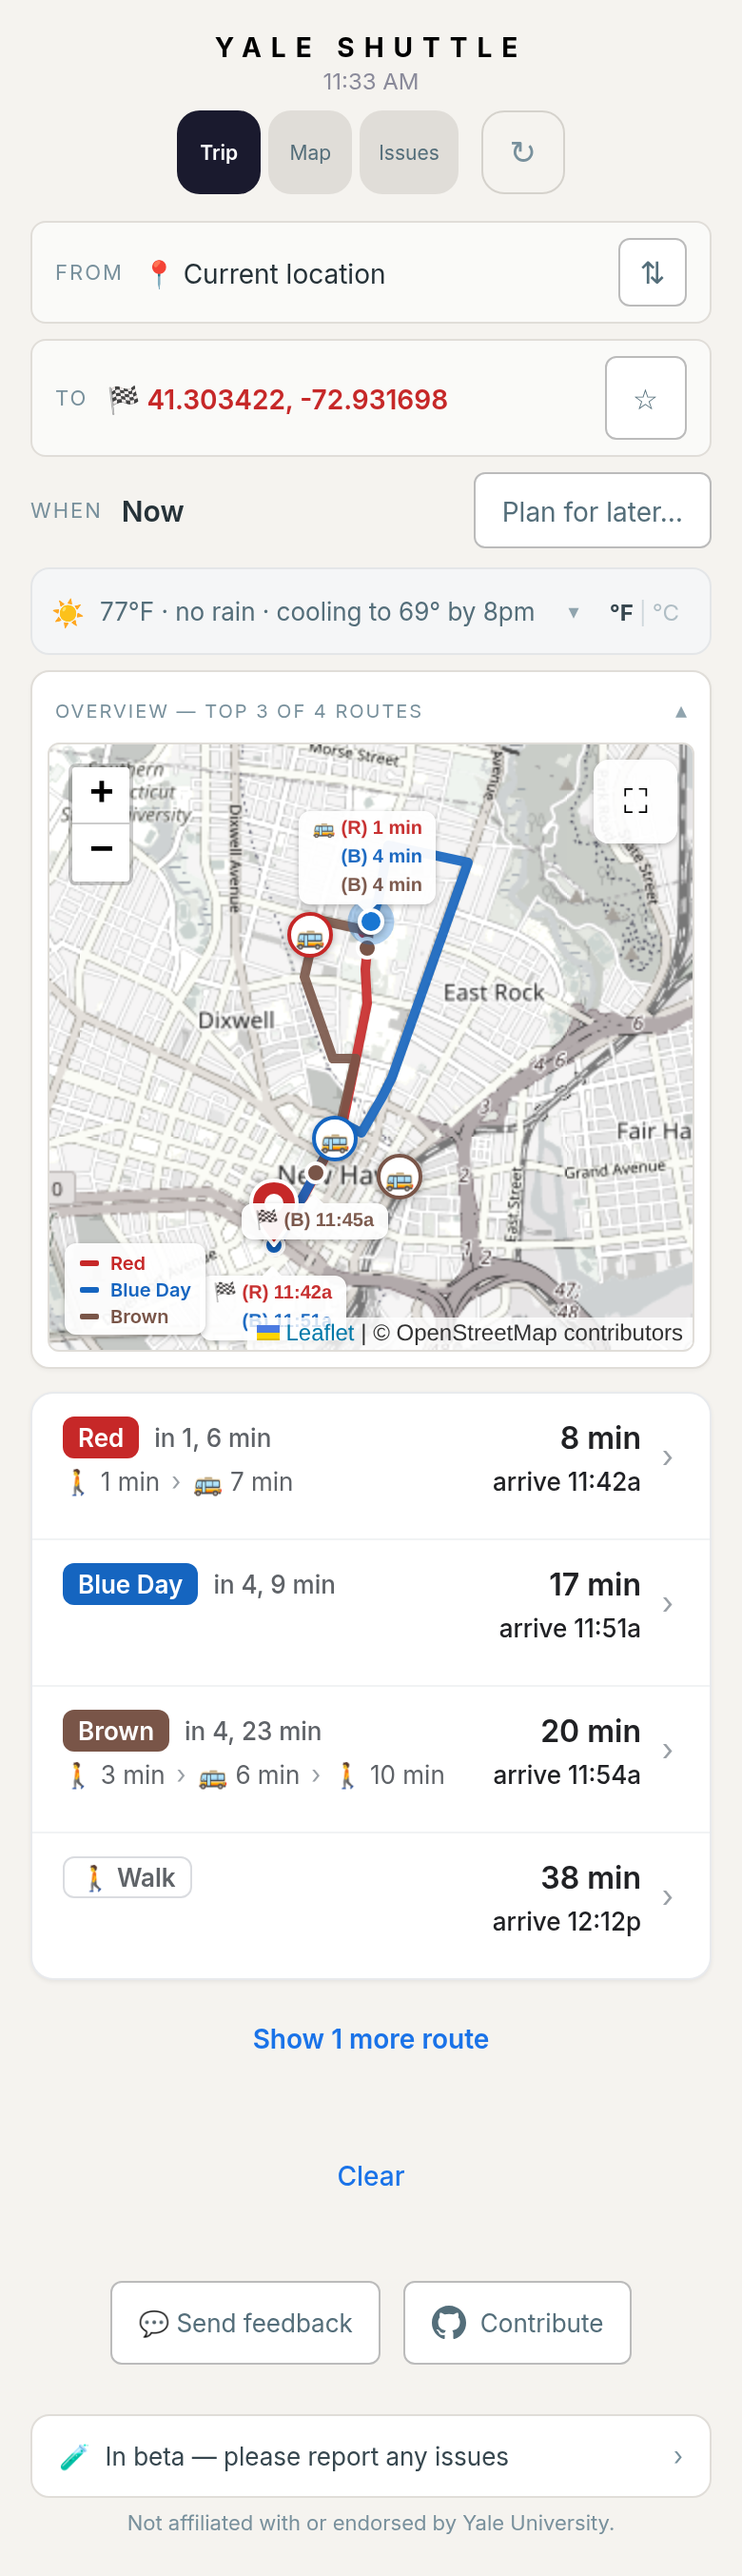
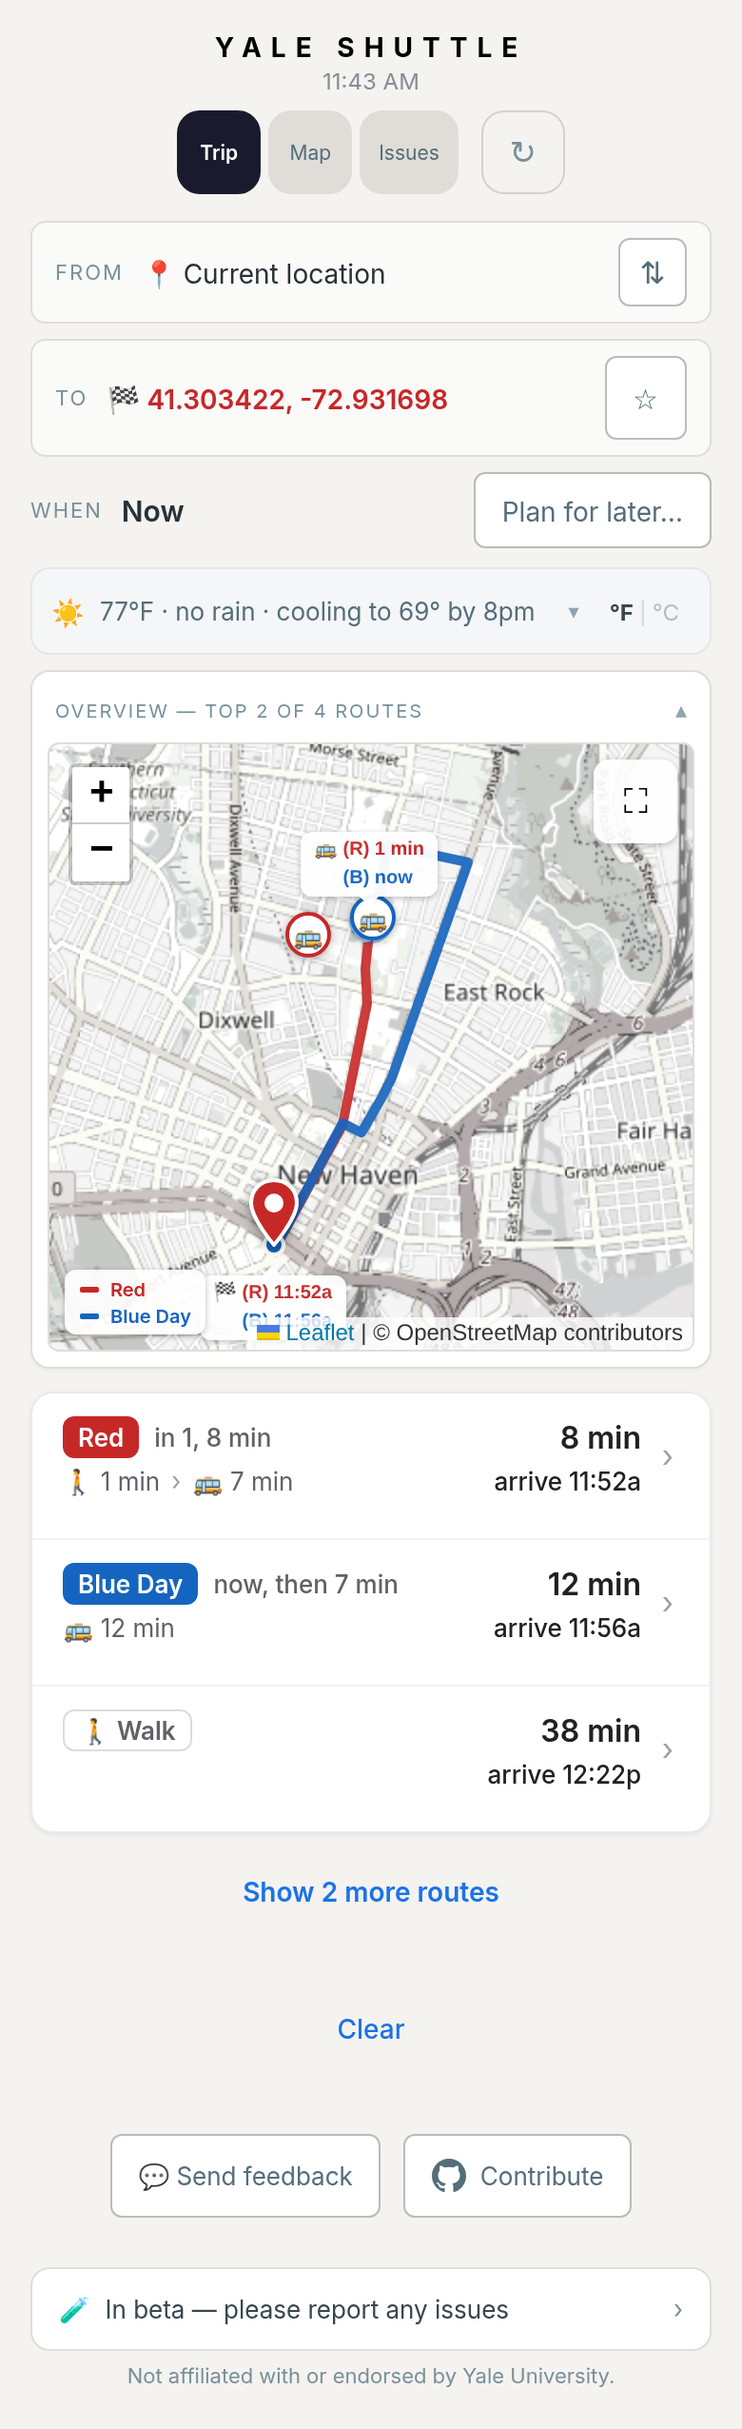
A trip with no walking still has a ride, and now says so
Visible on #115's own screenshot: "Blue Day  in 4, 9 min" and then an empty
second line, next to four cards that spelled out what the trip was made of.
The leg block was gated on `walkToSec > 0 || walkFromSec > 0`, so a rider
already at the stop, bound for a stop on the line, got no legs at all — and
the ride is the one leg every shuttle option has.

`legsShown` is now `!isExpanded && o.mode === "shuttle"` and nothing more. The
walks inside were already each guarded on their own duration, so a 0 s walk is
still omitted and such a card reads "🚌 17 min" under its pill. It stays the
single gate, so "· most direct" keeps its separator exactly where something
precedes it — which is now always, for a collapsed shuttle row.

THE CANARY. This shape puts a bare "🚌 12 min" directly under a duration —
where the countdown itself sat before 2026-09-04 — so it is the
ride-bar-vs-countdown collision the suite already guards, arriving from a new
direction. Two things hold: `parseBusEtaText` is the single arbiter and the
ride bar has no "in", and the countdown is found in `pre` (above the duration)
before the ride bar in `post` is ever considered. Captured from the rendered
page as LIVE_RIDE_WITHOUT_WALKS rather than argued, per the rule #115 wrote
into CLAUDE.md; all five cards parse with every field intact.

1-normal.png re-taken on this build.

Claude-Session: https://claude.ai/code/session_01R6RZ3PXjPXGkAaecqr9Z1H

diff --git a/services/shuttle-v2/web/src/TransitMap.tsx b/services/shuttle-v2/web/src/TransitMap.tsx
@@ -3657,13 +3657,23 @@ const TripPlanner: FC<{
                   busEtaLive,
                 )
               : null;
-            // Whether line 2's left column draws the walk/ride legs. "most
-            // direct" carries its own leading "·" and would otherwise open
-            // that column with an orphaned bullet: the arrival clock used to
-            // sit to its left and always supplied the neighbour, and it is the
-            // right column now, so the separator has to ask.
-            const legsShown = !isExpanded && o.mode === "shuttle"
-              && (o.walkToSec > 0 || o.walkFromSec > 0);
+            // Whether line 2's left column draws the trip's legs. EVERY
+            // collapsed shuttle row has one: the ride. This used to also
+            // require a walk at one end or the other, so a rider already at
+            // the stop whose destination is on it got a blank second line —
+            // the one card on screen that did not say what the trip was made
+            // of, next to four that did (visible on #115's own screenshot:
+            // "Blue Day  in 4, 9 min" and then nothing). The walk legs inside
+            // are each guarded on their own duration, so a 0 s walk is still
+            // omitted and a bus-only trip reads "🚌 17 min".
+            //
+            // It is also the single gate for the separator: "most direct"
+            // carries its own leading "·" and would open the column with an
+            // orphaned bullet if nothing were drawn before it. The arrival
+            // clock used to sit to its left and always supplied that
+            // neighbour; it is the right column now, so the separator has to
+            // ask.
+            const legsShown = !isExpanded && o.mode === "shuttle";
             return (
               // Keyed by IDENTITY (route label), not list position — the
               // list reorders live (Go pin, departed sink) and an index

diff --git a/CLAUDE.md b/CLAUDE.md
@@ -264,10 +264,17 @@ both times now fit at every ETA. The bus ETA is computed ONCE at row scope
 (`busEtaLive`) and consumed by both the top line and the departed warning, so
 they cannot disagree.
 
-**No leg is guaranteed.** A walk of 0 s is omitted, the ⏳ wait line only
-appears when no live bus is pinned (future mode), and a Departed card has no
-arrival clock at all — the row is built from whatever exists, never from a
-fixed slot per leg.
+**No leg is guaranteed EXCEPT the ride.** A walk of 0 s is omitted, the ⏳
+wait line only appears when no live bus is pinned (future mode), and a
+Departed card has no arrival clock at all — the row is built from whatever
+exists, never from a fixed slot per leg. But every collapsed shuttle row draws
+`🚌 {rideSec}`: `legsShown` is `!isExpanded && o.mode === "shuttle"` and
+nothing more. Gating the block on "a walk at one end or the other" left a
+rider already at the stop, bound for a stop on the line, with a blank second
+line — the one card on screen that did not say what the trip was made of.
+That card also puts a bare `🚌 N min` directly under a duration, which is
+where a countdown used to live: `parseBusEtaText` is the arbiter and the ride
+bar has no "in", and the countdown is found in `pre` first regardless.
 
 **The canary reads these cards as TEXT** (`parseOptions` in
 `scripts/canary-metrics.mjs`), so a layout change is a parser change: it
